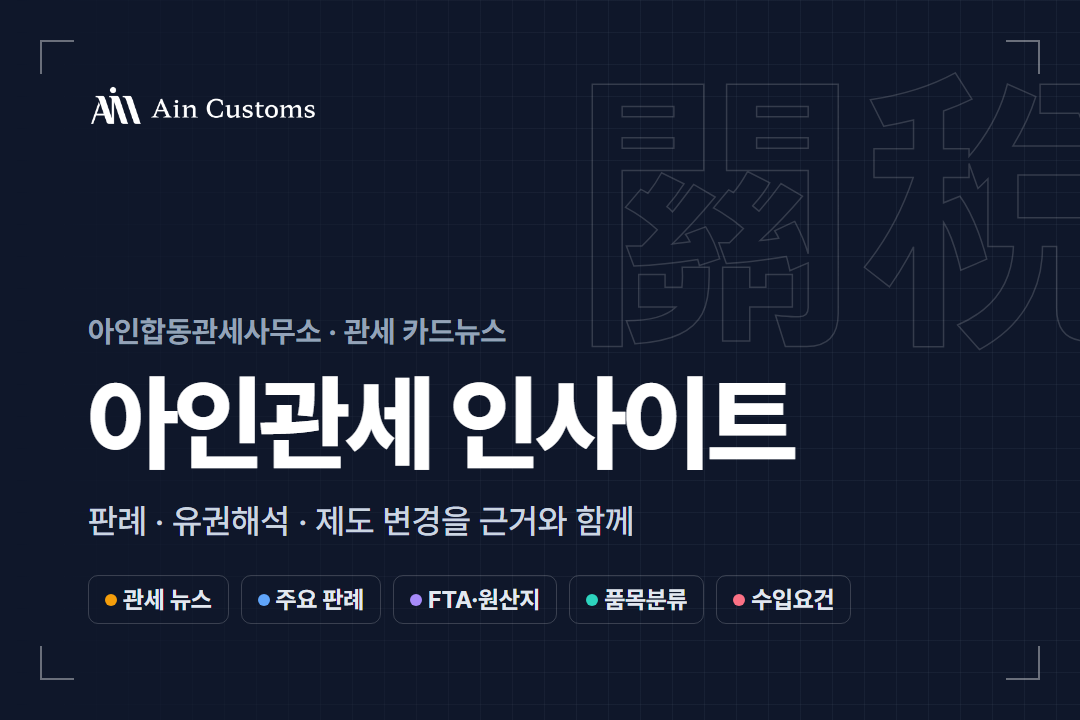
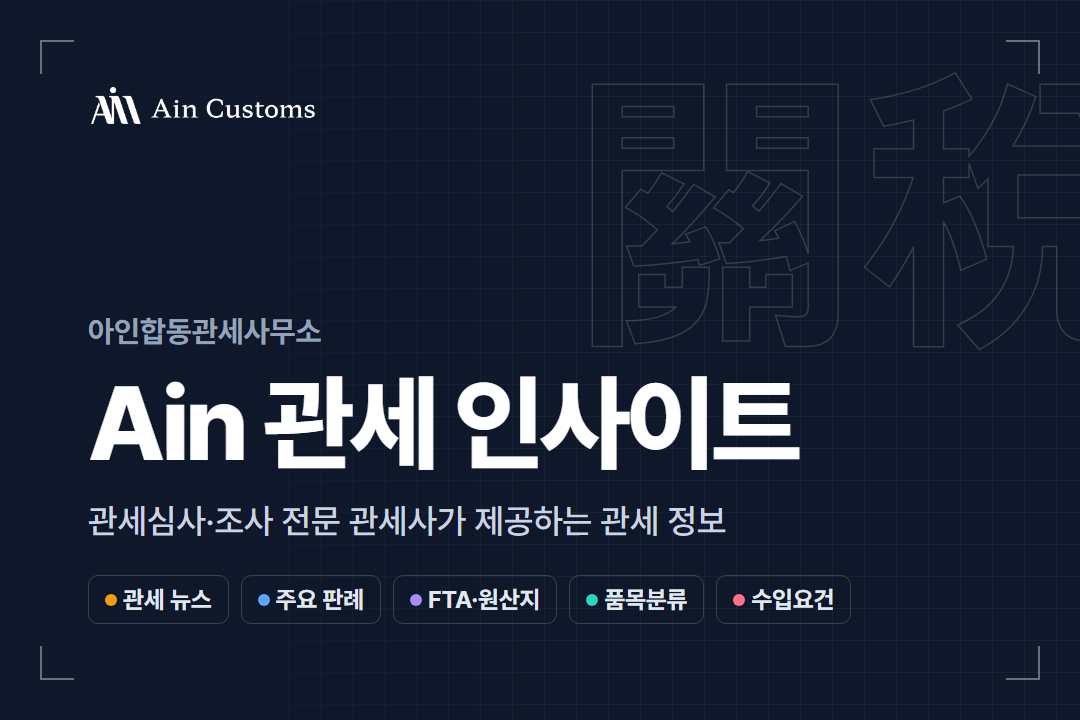
Rename the blog to Ain 관세 인사이트 and add broker profile cards
The Latin 'Ain' matches the firm's English name so AI search can tie
the blog to Ain Customs. Title image, mobile cover, card-news series
mark and homepage/news labels now use the new name. Profile cards for
정석현·조재호 come from the 2026-05 company deck, with clients shown by
industry only.

Changed region(s): [[0.0611, 0.5194, 0.6722, 0.6722], [0.0611, 0.7028, 0.6722, 0.7639], [0.3056, 0.4278, 0.4583, 0.4889]]

diff --git a/content/naver-blog/blog-skin/about.html b/content/naver-blog/blog-skin/about.html
@@ -1,0 +1,134 @@
+<!doctype html>
+<html lang="ko">
+<head>
+<meta charset="utf-8">
+<title>관세사 소개 카드</title>
+<style>
+@import url("../design/pretendard/pretendardvariable-dynamic-subset.css");
+:root { --navy: #0f172a; --blue: #2563eb; --light: #eff6ff; --slate-400: #94a3b8; --slate-300: #cbd5e1; --slate-200: #e2e8f0; --ink-2: #334155; --ink-3: #64748b; }
+* { box-sizing: border-box; margin: 0; padding: 0; }
+body { background: #444; padding: 40px; font-family: "Pretendard Variable", Pretendard, sans-serif; display: flex; flex-direction: column; gap: 40px; }
+.asset { position: relative; width: 1080px; height: 1350px; overflow: hidden; word-break: keep-all; padding: 80px; display: flex; flex-direction: column; }
+.reg i { position: absolute; width: 28px; height: 28px; border: 0 solid var(--rc); }
+.reg i:nth-child(1) { top: 36px; left: 36px; border-top-width: 2px; border-left-width: 2px; }
+.reg i:nth-child(2) { top: 36px; right: 36px; border-top-width: 2px; border-right-width: 2px; }
+.reg i:nth-child(3) { bottom: 36px; left: 36px; border-bottom-width: 2px; border-left-width: 2px; }
+.reg i:nth-child(4) { bottom: 36px; right: 36px; border-bottom-width: 2px; border-right-width: 2px; }
+.top { display: flex; justify-content: space-between; align-items: center; height: 48px; font-size: 28px; font-weight: 700; }
+.chip { background: var(--blue); color: #fff; padding: 6px 16px; border-radius: 8px; }
+.series { color: var(--slate-400); }
+.foot { margin-top: auto; display: flex; justify-content: space-between; align-items: center; font-size: 28px; font-weight: 600; }
+.logo { height: 46px; }
+
+/* cover */
+#about-cover { background: var(--navy); color: #fff; --rc: rgba(255,255,255,.38); }
+#about-cover .logo { filter: brightness(0) invert(1); }
+#about-cover .foot { color: var(--slate-400); }
+#about-cover .head { margin-top: 64px; }
+#about-cover .kicker { font-size: 34px; font-weight: 600; color: var(--slate-400); }
+#about-cover h1 { font-size: 80px; font-weight: 800; line-height: 1.2; letter-spacing: -0.03em; margin-top: 16px; }
+#about-cover .duo { display: grid; grid-template-columns: 1fr 1fr; gap: 32px; margin-top: 64px; }
+#about-cover figure { position: relative; border-radius: 16px; overflow: hidden; height: 600px; background: #1e293b; }
+#about-cover figure img { width: 100%; height: 100%; object-fit: cover; object-position: 50% 12%; display: block; }
+#about-cover figcaption { position: absolute; left: 0; right: 0; bottom: 0; padding: 80px 28px 24px; background: linear-gradient(transparent, rgba(15,23,42,.92)); }
+#about-cover figcaption b { font-size: 40px; font-weight: 800; display: block; }
+#about-cover figcaption span { font-size: 26px; font-weight: 600; color: var(--slate-300); }
+
+/* profile cards */
+.person { background: #fff; color: var(--navy); --rc: rgba(15,23,42,.3); }
+.person .series { color: var(--ink-3); }
+.person .foot { color: var(--ink-3); }
+.person .id { display: grid; grid-template-columns: 260px 1fr; gap: 44px; align-items: end; margin-top: 56px; }
+.person .id img { width: 260px; height: 330px; object-fit: cover; object-position: 50% 12%; border-radius: 14px; display: block; }
+.person .role { font-size: 30px; font-weight: 700; color: var(--blue); }
+.person h2 { font-size: 72px; font-weight: 800; letter-spacing: -0.03em; margin-top: 8px; line-height: 1.1; }
+.person .focus { display: flex; flex-wrap: wrap; gap: 10px; margin-top: 22px; }
+.person .focus span { font-size: 26px; font-weight: 700; padding: 6px 14px; border-radius: 8px; background: var(--light); color: var(--blue); }
+.person dl { margin-top: 52px; border-top: 3px solid var(--navy); }
+.person dl > div { display: grid; grid-template-columns: 170px 1fr; gap: 24px; padding: 22px 0; border-bottom: 2px solid var(--slate-200); }
+.person dt { font-size: 28px; font-weight: 800; color: var(--ink-3); padding-top: 3px; }
+.person dd { font-size: 33px; font-weight: 600; line-height: 1.5; color: var(--ink-2); }
+.person dd b { color: var(--navy); font-weight: 800; }
+.person dd small { font-size: 26px; color: var(--ink-3); font-weight: 600; margin-left: 8px; }
+.cred-head { margin-top: 48px; }
+#about-cred h2 { font-size: 64px; line-height: 1.22; }
+#about-cred dl { margin-top: 44px; }
+#about-cred dd { font-size: 30px; }
+#about-cred dd b { font-size: 33px; }
+</style>
+</head>
+<body>
+
+<section class="asset" id="about-cover">
+  <div class="reg"><i></i><i></i><i></i><i></i></div>
+  <div class="top"><span class="chip">사무소 소식</span><span class="series">Ain 관세 인사이트</span></div>
+  <div class="head">
+    <div class="kicker">아인합동관세사무소</div>
+    <h1>관세심사·조사,<br>이 관세사들이 직접 봅니다</h1>
+  </div>
+  <div class="duo">
+    <figure><img src="../../../images/jung-seokhyeon.jpg" alt=""><figcaption><b>정석현</b><span>대표관세사 · 前 딜로이트관세법인</span></figcaption></figure>
+    <figure><img src="../../../images/cho-jaeho.jpg" alt=""><figcaption><b>조재호</b><span>대표관세사 · 前 딜로이트관세법인</span></figcaption></figure>
+  </div>
+  <div class="foot"><img class="logo" src="../design/logo.png" alt=""><span>1 / 4</span></div>
+</section>
+
+<section class="asset person" id="about-jsh">
+  <div class="reg"><i></i><i></i><i></i><i></i></div>
+  <div class="top"><span class="chip">관세사 소개</span><span class="series">Ain 관세 인사이트</span></div>
+  <div class="id">
+    <img src="../../../images/jung-seokhyeon.jpg" alt="">
+    <div>
+      <div class="role">대표관세사</div>
+      <h2>정석현</h2>
+      <div class="focus"><span>관세조사·심사</span><span>품목분류</span><span>FTA</span><span>수출입요건</span><span>외국환</span></div>
+    </div>
+  </div>
+  <dl>
+    <div><dt>현재</dt><dd><b>아인합동관세사무소 대표관세사</b></dd></div>
+    <div><dt>경력</dt><dd><b>딜로이트관세법인</b> 관세팀 Manager</dd></div>
+    <div><dt>자격</dt><dd><b>관세사</b> · 원산지관리사 · 국제무역사</dd></div>
+    <div><dt>위원·자문</dt><dd><b>원산지실무사 출제위원</b><br>한국원산지정보원 FTA 컨설턴트<br>정기수입세액정산 확인관세사</dd></div>
+    <div><dt>주요 수행</dt><dd>법인심사·종합심사 대리, 외환조사 대리<br>품목분류 사전심사·불복, ACVA 신청 대리</dd></div>
+  </dl>
+  <div class="foot"><img class="logo" src="../design/logo.png" alt=""><span>2 / 4</span></div>
+</section>
+
+<section class="asset person" id="about-cjh">
+  <div class="reg"><i></i><i></i><i></i><i></i></div>
+  <div class="top"><span class="chip">관세사 소개</span><span class="series">Ain 관세 인사이트</span></div>
+  <div class="id">
+    <img src="../../../images/cho-jaeho.jpg" alt="">
+    <div>
+      <div class="role">대표관세사</div>
+      <h2>조재호</h2>
+      <div class="focus"><span>관세심사</span><span>수출입통관</span><span>외국환</span><span>이전가격</span></div>
+    </div>
+  </div>  <dl>
+    <div><dt>현재</dt><dd><b>아인합동관세사무소 대표관세사</b></dd></div>
+    <div><dt>경력</dt><dd><b>딜로이트관세법인</b> 등 관세 분야 13년</dd></div>
+    <div><dt>위원·자문</dt><dd><b>전략물자관리원 전략물자 컨설팅 전문위원</b><br>한국원산지정보원 FTA 컨설턴트<br>한국무역협회 FTA 활용지원 컨설턴트<br>정기수입세액정산 확인관세사</dd></div>
+    <div><dt>주요 수행</dt><dd>법인심사·종합심사 대리, 관세불복 대리<br>ACVA·이전가격, 과세가격 사전심사</dd></div>
+  </dl>
+  <div class="foot"><img class="logo" src="../design/logo.png" alt=""><span>3 / 4</span></div>
+</section>
+
+<section class="asset person" id="about-cred">
+  <div class="reg"><i></i><i></i><i></i><i></i></div>
+  <div class="top"><span class="chip">업무 Credential</span><span class="series">Ain 관세 인사이트</span></div>
+  <div class="cred-head">
+    <div class="role">관세조사 · 심사 · 불복</div>
+    <h2>이런 사건을<br>직접 수행해 왔습니다</h2>
+  </div>
+  <dl>
+    <div><dt>관세조사</dt><dd><b>법인심사·기획심사 대리</b><br>다국적: 자동차·의료기기·운동용품·가전·명품<br>국내: 조선·정유·석유화학·반도체장비·공항공사</dd></div>
+    <div><dt>종합심사</dt><dd><b>AEO 종합심사 대리</b> · 정기수입세액정산 확인관세사<br>중공업·자동차·전자·디스플레이·생활용품</dd></div>
+    <div><dt>불복</dt><dd><b>품목분류·과세가격 쟁점 관세불복 대리</b><br>운동용품·디스플레이·무역상사·필름·공사</dd></div>
+    <div><dt>사전심사</dt><dd><b>품목분류·과세가격 사전심사, ACVA</b><br>의료기기·디스플레이·명품·에너지·가전</dd></div>
+    <div><dt>외국환</dt><dd><b>외환조사 대리 · 외국환 진단</b><br>전기차·화장품·의료기기·반도체·중공업</dd></div>
+  </dl>
+  <div class="foot"><img class="logo" src="../design/logo.png" alt=""><span>4 / 4</span></div>
+</section>
+
+</body>
+</html>

diff --git a/lib/naver-blog-news.js b/lib/naver-blog-news.js
@@ -8,7 +8,7 @@ const SITE_URL = 'https://www.aincustoms.com';
 const PAGE_URL = SITE_URL + '/news';
 const PUBLISHER = '아인합동관세사무소';
 const PAGE_TITLE = '관세 주요 뉴스 | 아인합동관세사무소';
-const PAGE_DESCRIPTION = "관세사가 판례·유권해석·제도 변경을 카드뉴스로 정리한 관세 주요 뉴스. 아인합동관세사무소 네이버 블로그 '아인관세 인사이트'의 최신 글.";
+const PAGE_DESCRIPTION = "관세사가 판례·유권해석·제도 변경을 카드뉴스로 정리한 관세 주요 뉴스. 아인합동관세사무소 네이버 블로그 'Ain 관세 인사이트'의 최신 글.";
 
 const CATEGORY_KEYS = {
   '관세 뉴스': 'news',
@@ -236,7 +236,7 @@ function renderNewsPage(items, options = {}) {
   const fetchedIso = fetchedAt && Number.isFinite(fetchedAt.getTime()) ? fetchedAt.toISOString() : '';
   const ogImage = (list.find(item => item.image) || {}).image || SITE_URL + '/images/logo.png';
   const emptyBlock = empty
-    ? `<div class="empty">최신 글을 불러오지 못했습니다. <a href="${BLOG_URL}" target="_blank" rel="noopener noreferrer" style="color:var(--blue);font-weight:700;text-decoration:underline">네이버 블로그 &lsquo;아인관세 인사이트&rsquo;</a>에서 전체 글을 확인하세요.</div>`
+    ? `<div class="empty">최신 글을 불러오지 못했습니다. <a href="${BLOG_URL}" target="_blank" rel="noopener noreferrer" style="color:var(--blue);font-weight:700;text-decoration:underline">네이버 블로그 &lsquo;Ain 관세 인사이트&rsquo;</a>에서 전체 글을 확인하세요.</div>`
     : '<div class="empty">해당 카테고리의 글이 아직 없습니다.</div>';
 
   return `<!DOCTYPE html>
@@ -289,7 +289,7 @@ function renderNewsPage(items, options = {}) {
 
     <header class="page-header">
         <div class="container">
-            <span class="kicker">아인관세 인사이트</span>
+            <span class="kicker">Ain 관세 인사이트</span>
             <h1>관세 주요 뉴스</h1>
             <p>관세사가 판례·유권해석·제도 변경을 카드뉴스로 정리합니다.</p>
             <div class="header-actions">
@@ -337,7 +337,7 @@ function renderNewsPage(items, options = {}) {
     <footer class="site-footer">
         <div class="container">
             <span>© 아인합동관세사무소</span>
-            <a href="${BLOG_URL}" target="_blank" rel="noopener noreferrer">아인관세 인사이트 (네이버 블로그) ↗</a>
+            <a href="${BLOG_URL}" target="_blank" rel="noopener noreferrer">Ain 관세 인사이트 (네이버 블로그) ↗</a>
         </div>
     </footer>
 

diff --git a/content/naver-blog/blog-skin/skin.html b/content/naver-blog/blog-skin/skin.html
@@ -2,7 +2,7 @@
 <html lang="ko">
 <head>
 <meta charset="utf-8">
-<title>아인관세 인사이트 — 블로그 스킨 에셋</title>
+<title>Ain 관세 인사이트 — 블로그 스킨 에셋</title>
 <style>
 @import url("../design/pretendard/pretendardvariable-dynamic-subset.css");
 :root {
@@ -83,9 +83,9 @@ body { background: #444; font-family: "Pretendard Variable", Pretendard, sans-se
   <div class="wm">關稅</div>
   <div class="reg"><i></i><i></i><i></i><i></i></div>
   <div class="in">
-    <div class="kicker"><b>INSIGHT</b> 아인합동관세사무소 · 관세사가 직접 쓰는 카드뉴스</div>
-    <h1>아인관세 인사이트</h1>
-    <p>판례 · 유권해석 · 제도 변경을 근거와 함께, 한 장씩 정리합니다.</p>
+    <div class="kicker">아인합동관세사무소</div>
+    <h1>Ain 관세 인사이트</h1>
+    <p>관세심사·조사 전문 관세사가 제공하는 관세 정보</p>
     <div class="foot">
       <div class="chips">
         <span class="chip" style="--c:var(--cat-news)">관세 뉴스</span>
@@ -127,9 +127,9 @@ body { background: #444; font-family: "Pretendard Variable", Pretendard, sans-se
   <div class="reg"><i></i><i></i><i></i><i></i></div>
   <img class="logo" src="../design/logo.png" alt="">
   <div class="in">
-    <div class="kicker">아인합동관세사무소 · 관세 카드뉴스</div>
-    <h1>아인관세 인사이트</h1>
-    <p>판례 · 유권해석 · 제도 변경을 근거와 함께</p>
+    <div class="kicker">아인합동관세사무소</div>
+    <h1>Ain 관세 인사이트</h1>
+    <p>관세심사·조사 전문 관세사가 제공하는 관세 정보</p>
     <div class="chips">
       <span class="chip" style="--c:var(--cat-news)">관세 뉴스</span>
       <span class="chip" style="--c:var(--cat-case)">주요 판례</span>

diff --git a/content/naver-blog/design/template.html b/content/naver-blog/design/template.html
@@ -3,7 +3,7 @@
 <head>
 <meta charset="utf-8">
 <meta name="viewport" content="width=1160">
-<title>아인관세 인사이트 — 카드뉴스 템플릿</title>
+<title>Ain 관세 인사이트 — 카드뉴스 템플릿</title>
 <link rel="stylesheet" href="./cards.css">
 </head>
 <body>
@@ -14,7 +14,7 @@
 window.POST = {
   category: "news",                       // case | hs | fta | news | req
   categoryLabel: "관세 뉴스",
-  series: "아인관세 인사이트",
+  series: "Ain 관세 인사이트",
   writtenAt: "2026. 10.",
   cards: [
     { type: "cover",

diff --git a/index.html b/index.html
@@ -1059,7 +1059,7 @@
         <div class="container">
             <div class="insights-head">
                 <div>
-                    <p class="insights-kicker">아인관세 인사이트</p>
+                    <p class="insights-kicker">Ain 관세 인사이트</p>
                     <h2 id="insights-title">관세 인사이트</h2>
                     <p>관세사가 최신 판례·유권해석·제도 변경을 한 장씩 넘겨 보는 카드뉴스로 정리합니다.</p>
                 </div>

diff --git a/content/naver-blog/design/cards.css b/content/naver-blog/design/cards.css
@@ -1,4 +1,4 @@
-/* 아인관세 인사이트 — card-news system
+/* Ain 관세 인사이트 — card-news system
    Canvas: 1080 x 1350 (4:5). All sizes are px for render fidelity. */
 
 @import url("./pretendard/pretendardvariable-dynamic-subset.css");

diff --git a/content/naver-blog/daily/DAILY_RUN.md b/content/naver-blog/daily/DAILY_RUN.md
@@ -1,6 +1,6 @@
-# 아인관세 인사이트 — 매일 19:00 카드뉴스 초안 작업 지침
+# Ain 관세 인사이트 — 매일 19:00 카드뉴스 초안 작업 지침
 
-너는 아인합동관세사무소 블로그 "아인관세 인사이트"(https://blog.naver.com/aincustoms_)의 카드뉴스 초안 담당이다.
+너는 아인합동관세사무소 블로그 "Ain 관세 인사이트"(https://blog.naver.com/aincustoms_)의 카드뉴스 초안 담당이다.
 작업 폴더: `content/naver-blog/` (이하 기준 경로). 반드시 `PROCESS.md`를 먼저 읽고 그 절차를 그대로 따른다.
 
 ## 절대 규칙
@@ -53,10 +53,10 @@
 ```
 powershell -NoProfile -ExecutionPolicy Bypass -File content/naver-blog/daily/send-report.ps1 -Subject "<제목>" -HtmlFile "<report.html 절대경로>" -Attachments "<표지1>","<표지2>",...
 ```
-- 초안이 있으면 제목: `[아인관세 인사이트] MM/DD 카드뉴스 초안 N건 검수 요청`
+- 초안이 있으면 제목: `[Ain 관세 인사이트] MM/DD 카드뉴스 초안 N건 검수 요청`
   본문: 글별 표(카테고리, 제목, 원문 근거·번호·날짜, 핵심 3줄, 법령검증 결과, 검토 판정, 네이버 임시저장 여부), 각 글 표지 PNG(card-01.png) 첨부,
   안내: "네이버 블로그 글쓰기 → 임시저장 목록에서 확인 후 발행하시면 됩니다. 수정이 필요하면 Claude에게 '07번 이렇게 고쳐줘'라고 말씀해 주세요."
-- 할 만한 내용이 없으면 제목: `[아인관세 인사이트] MM/DD 업데이트 없음 보고`
+- 할 만한 내용이 없으면 제목: `[Ain 관세 인사이트] MM/DD 업데이트 없음 보고`
   본문: 오늘 확인한 출처와 범위, 후보가 있었다면 제외 사유를 5줄 이내로 간략히.
 - 메일 발송 성공 후 `daily/out/<오늘날짜>/REPORT_SENT` 빈 파일을 만든다 (런처가 이 파일로 실패 여부를 판단).
 - `daily/ledger.json`에 오늘 다룬 항목(사건번호/법령/사례 식별자, 날짜, 결과: draft/hold/skip)을 추가한다. 파일이 없으면 `{"items": []}`로 만든다.

diff --git a/content/naver-blog/blog-skin/about-post.md b/content/naver-blog/blog-skin/about-post.md
@@ -1,0 +1,31 @@
+# 아인합동관세사무소 관세사 소개 | 관세심사·조사 전문 정석현·조재호 관세사
+
+[이미지 about-cover.png]
+
+안녕하세요, 아인합동관세사무소입니다.
+Ain 관세 인사이트에 올라오는 글은 저희 관세사들이 직접 검토해 작성합니다.
+어떤 관세사가 쓰고 있는지 먼저 소개드립니다.
+
+[이미지 about-jsh.png]
+
+정석현 대표관세사는 딜로이트관세법인 관세팀에서 Manager로 일했습니다.
+관세조사·종합심사 대리, 외환조사, 품목분류 사전심사와 불복을 주로 맡고 있습니다.
+원산지실무사 출제위원과 한국원산지정보원 FTA 컨설턴트로도 활동하고 있습니다.
+
+[이미지 about-cjh.png]
+
+조재호 대표관세사는 딜로이트관세법인 등에서 관세 분야 13년 경력을 쌓았습니다.
+법인심사·종합심사 대리, 관세불복, ACVA·이전가격, 과세가격 사전심사를 주로 맡고 있습니다.
+전략물자관리원 전략물자 컨설팅 전문위원, 한국무역협회 FTA 활용지원 컨설턴트로 활동하고 있습니다.
+
+[이미지 about-cred.png]
+
+관세조사 통지를 받으셨거나, 품목분류·과세가격 문제로 추징 위험이 있다면 조사가 시작되기 전에 상담받아 보시길 권합니다.
+같은 사안이라도 초기에 어떻게 대응하느냐에 따라 결과가 달라지는 경우가 많습니다.
+
+궁금한 사례가 있으면 편하게 문의해 주세요.
+- 전화 02-518-5435
+- 이메일 jsh@aincustoms.com
+- 홈페이지 https://www.aincustoms.com
+
+태그: #아인합동관세사무소 #관세사 #관세조사 #관세심사 #정석현관세사 #조재호관세사 #관세불복

diff --git a/content/naver-blog/design/design-spec.md b/content/naver-blog/design/design-spec.md
@@ -1,6 +1,6 @@
-# 아인관세 인사이트 카드뉴스 디자인 스펙
+# Ain 관세 인사이트 카드뉴스 디자인 스펙
 
-대상: 네이버 블로그 "아인관세 인사이트" (아인합동관세사무소) 카드뉴스. 규격 1080x1350 (4:5), 7~8장.
+대상: 네이버 블로그 "Ain 관세 인사이트" (아인합동관세사무소) 카드뉴스. 규격 1080x1350 (4:5), 7~8장.
 구현: `template.html` + `cards.css` (HTML/CSS/vanilla JS, 외부 의존 없음). 데이터 구조는 `post-schema.md`. 렌더 확인은 `render.mjs` → `preview/card-0N.png`.
 
 ## 1. 디자인 방향 (rationale)
@@ -21,7 +21,7 @@
 | 캔버스 | 1080 x 1350 px, 모바일 1배 기준 |
 | 바깥 여백 | 80 px (좌·우·상·하 동일) → 콘텐츠 폭 920 px |
 | 세로 구조 | 상단 크롬 48 px / 본문 1fr / 하단 크롬 56 px, 행 간격 48 px |
-| 상단 크롬 | 좌: 카테고리 칩(높이 48, 강조색 채움) / 우: 시리즈 마크 "아인관세 인사이트" |
+| 상단 크롬 | 좌: 카테고리 칩(높이 48, 강조색 채움) / 우: 시리즈 마크 "Ain 관세 인사이트" |
 | 하단 크롬 | 좌: 로고(높이 46, 어두운 카드에서는 흰색 반전) / 우: 페이지 `n / N` |
 | 등록 마크 | 각 모서리 36 px 안쪽, 28x28, 2 px 선 |
 | 본문 정렬 | 좌측 정렬. 가운데 정렬은 인장·vs 표시만 |

diff --git a/content/naver-blog/topics/topics.md b/content/naver-blog/topics/topics.md
@@ -1,4 +1,4 @@
-# 아인관세 인사이트 | 카드뉴스 예시 토픽 5선 (조사일 2026. 10. 12.)
+# Ain 관세 인사이트 | 카드뉴스 예시 토픽 5선 (조사일 2026. 10. 12.)
 
 조사 방법: korean-law MCP(법제처 판례·조세심판례·현행/연혁 법령 원문 직접 조회) + 웹검색(보조). 인용문은 판결문·결정문·법령 조회 텍스트에서 그대로 옮긴 것만 사용. 사건번호는 조회 결과에 나온 것만 기재했고, 비공개(OOO) 번호는 쓰지 않음.
 

diff --git a/content/naver-blog/references/writing-style.md b/content/naver-blog/references/writing-style.md
@@ -1,4 +1,4 @@
-# 본문(body.md) 가독성 스타일 가이드 - 아인관세 인사이트
+# 본문(body.md) 가독성 스타일 가이드 - Ain 관세 인사이트
 
 대상 독자: 소규모 수입자, 온라인 셀러, 구매대행 운영자 등 관세 비전문가.
 원칙: **가볍고 짧게. 핵심 메시지만 전하고, 자세한 내용은 상담으로 연결한다.** 상세 요건·예외·수치는 카드 이미지가 담당하고 본문은 읽는 부담을 덜어 준다.
